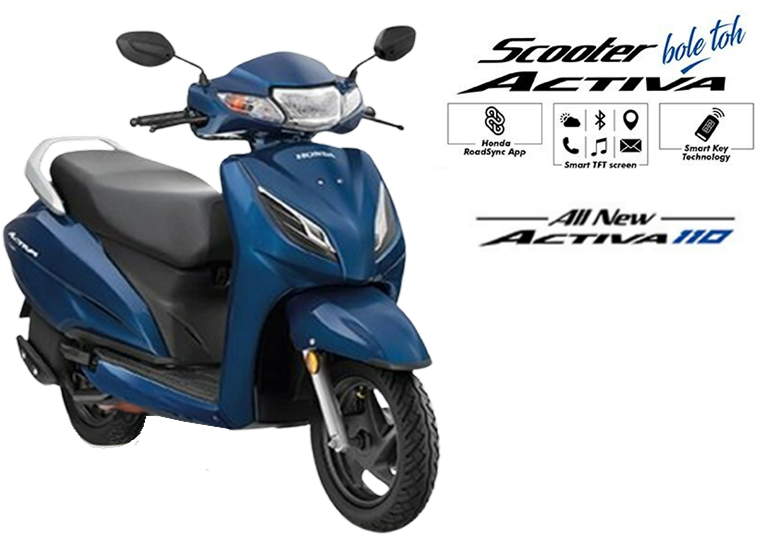
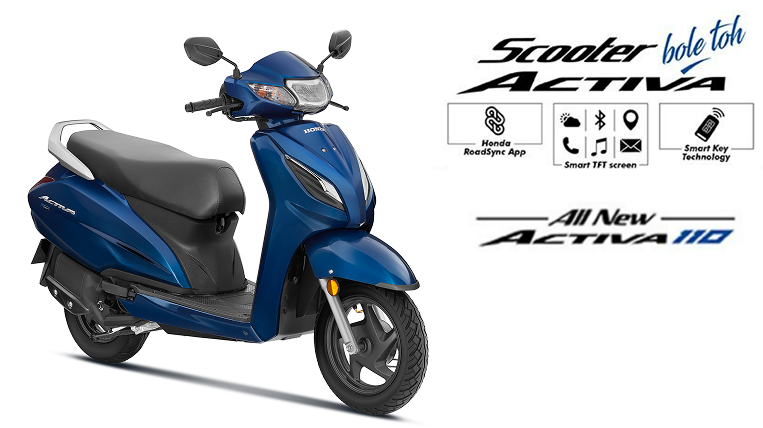
code updated

diff --git a/assets/css/main.css b/assets/css/main.css
@@ -85,9 +85,6 @@ section,
   min-height: 100vh;
   position: relative;
   padding: 120px 0 80px 0;
-  display: flex;
-  align-items: center;
-  justify-content: center;
 }
 
 .hero .container {
@@ -242,6 +239,12 @@ section,
   margin-bottom: 20px;
 }
 
+.hero-sec{
+  display: flex;
+  align-items: center;
+  justify-content: space-between;
+}
+
 /* Mobile view adjustments */
 @media (max-width: 767.98px) {
   #get-otp-btn {
@@ -263,10 +266,7 @@ section,
     width: 100%;
     min-height: 100vh;
     position: relative;
-    padding: 10px 0 0px 0;
-    display: flex;
-    align-items: center;
-    justify-content: center;
+    padding: 37px 0 0px 0;
   }
   .desk-img{
     display: none;
@@ -277,6 +277,11 @@ section,
 
   .mar-f-desk{
     margin-bottom: 5px;
+  }
+  .hero-sec{
+    display: block;
+    align-items: start;
+    justify-content: start;
   }
 }
 

diff --git a/index.html b/index.html
@@ -44,15 +44,15 @@
   <main class="main">
 
     <!-- Hero Section -->
-    <section id="hero" class="hero section dark-background">
+    <section id="hero" class="hero hero-sec section dark-background">
       <div class="container">
-        <div class="row phone-rem justify-content-between align-items-center">
+        <div class="row justify-content-between">
           <div class="col-lg-7">
             <div class="desk-img">
-              <img src="assets/img/blue-activa.png" class="img-fluid mt-4">
+              <img src="assets/img/blue-activa.png" class="img-fluid ">
             </div>
             <div class="mob-img">
-              <img src="assets/img/blue.png" class="img-fluid mt-4">
+              <img src="assets/img/blue.png" class="img-fluid ">
             </div>
           </div>
           <div class="col-lg-4">
